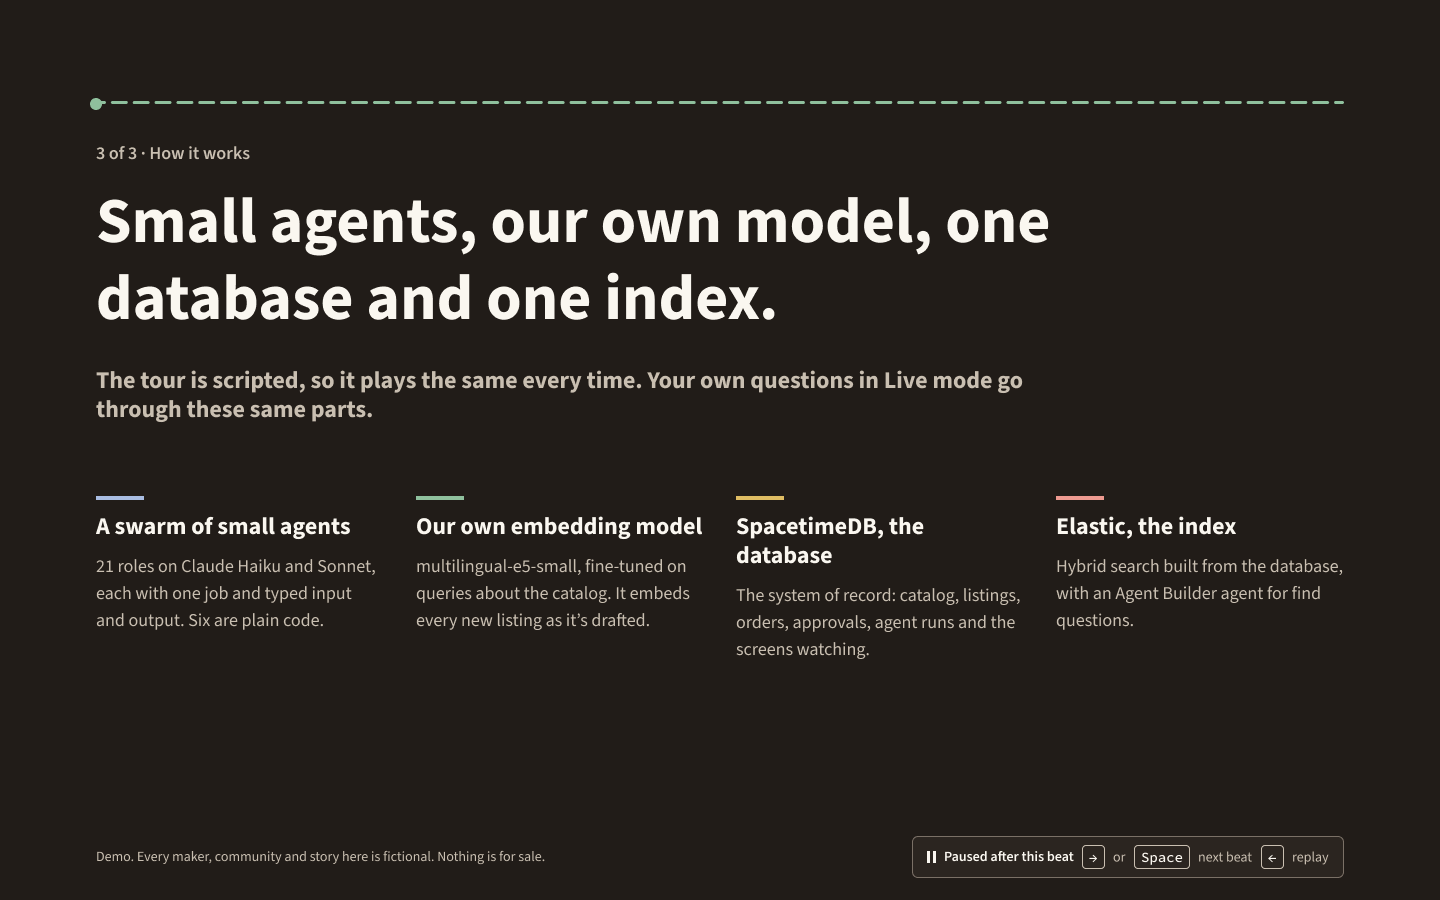
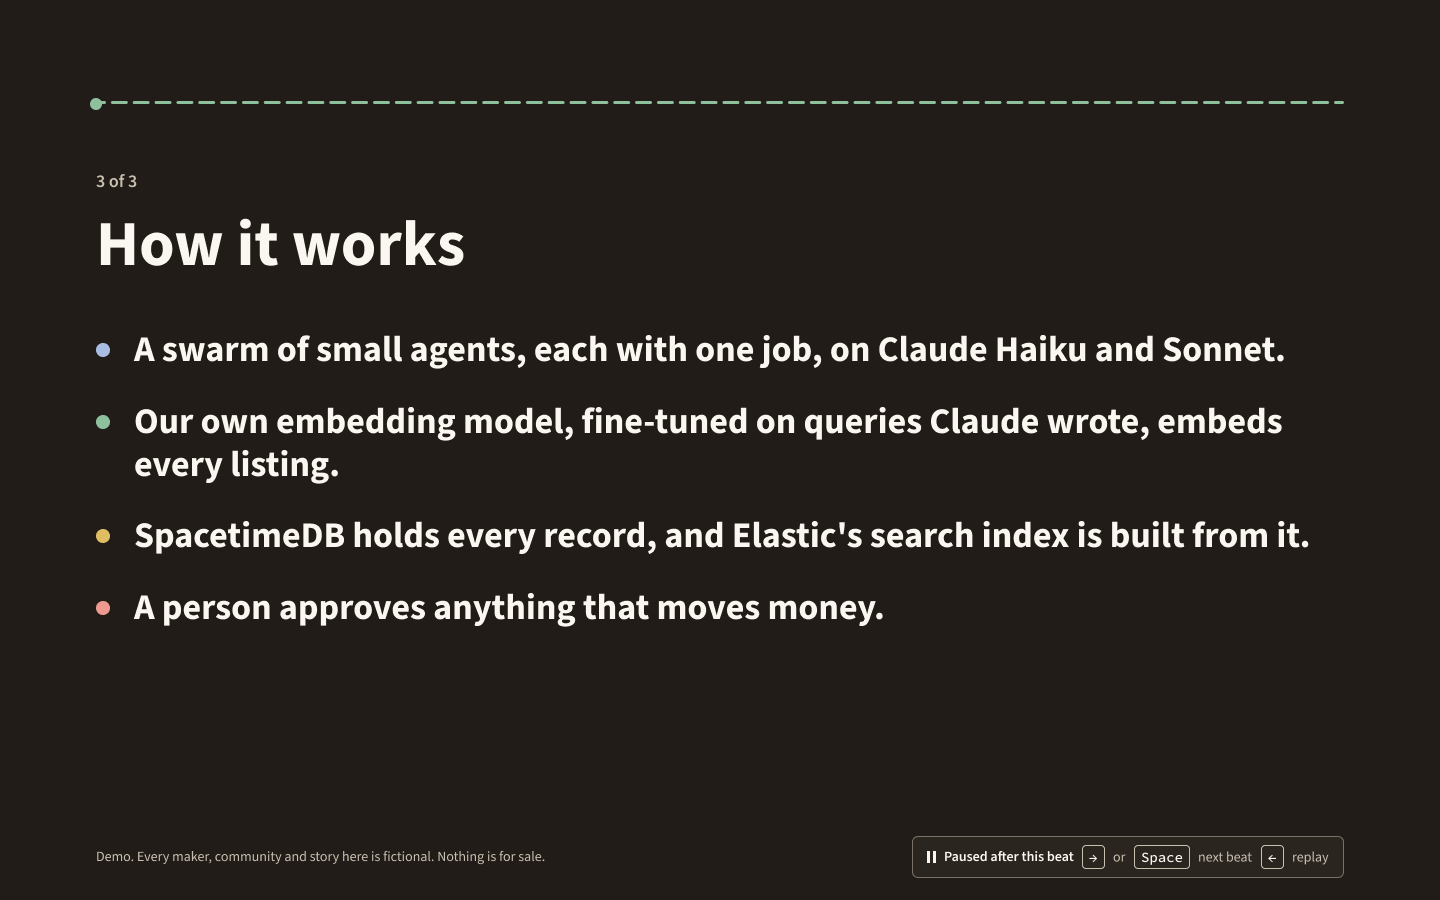
v2 fix: shared-names re-check findings (still in progress, don't build from this commit)
Claude-Session: https://claude.ai/code/session_01JjbAis91jVj1phbgkn75Tj

Changed region(s): [[0.0625, 0.1556, 0.9062, 0.5289], [0.0625, 0.5289, 0.9375, 0.7467]]

diff --git a/docs/v2/reviews/FX10a-shared-names-recheck.md b/docs/v2/reviews/FX10a-shared-names-recheck.md
@@ -1,0 +1,28 @@
+# FX10a · Re-check of the shared names
+
+Fresh checker, Oct 24, about 5:42 PM PT, after the fix plan was applied. Read only. All 16 blockers from B1, D1 and D2 are resolved. New: 2 blockers, 2 majors, 20 minors.
+
+1. **blocker.** S3-catalog:327 makes `run_01` step 8 "`clerk` tool `arrival_window`", but section 6 gives the clerk `order_lookup` and `policy`, and "the run calls `arrival_window` as code". T8's test requires every step to use one of its agent's own tools, so G2b fails. Fix S3:354: "and the tools that agent is allowed, except `arrival_window`, which the run calls as code for the Clerk (contracts section 6)".
+2. **blocker.** I2-tour:228 and :269 hard-code 0.91 for `watch-similarity-cft_01`, but S3 T9 writes the computed match into `watch.ts` before V3. Fix: "the similarity from the timeline's `counterfeit.flagged` `cft_01` (0.91 until S3 T9 replaces it)". Add d14 to the data-read figures at I2-tour:185.
+3. **major.** I2-tour:88 and :171 say the tour's `split.shown` payload doesn't change, but contracts:574 and S3:274 give `splits.pc_01` a `compare`. Fix I2-tour:88: "76.5 `split.shown` from `splits.pc_01`: figure 1's numbers plus figure 16's `compare`". At :171, add "and `compare` on `split.shown`".
+4. **major.** The core gate: contracts:648 runs `check` and `test:server`, I2-core:3, :13 and v2-runbook:89 run `check`, `test:smoke` and `test:demo`. Fix: all list `npm run check`, `npm run test:smoke`, `npm run test:demo`, `npm run test:server`.
+5. **minor.** contracts:862's `ALLOWED_EMPTY_FALLBACKS` lacks `b11-embed` (`search.mapped`, `model.trained`, `proof.search_scored`).
+6. **minor.** S3:330 reads "That's the co-op's record, and Cindia hasn't checked it independently." while L15 (contracts:890) ends "That's the co-op's record." Labels are copied word for word. Fix: L15 becomes the current text plus "Cindia hasn't checked it independently." in both languages, and S3 copies L15 exactly.
+7. **minor.** `pc_55` (contracts:705) is missing from I2-core:283 and S3:131, and S3:336 and :403 still call it proposed. Fix: add "`pc_55` (the piece `lst_01` drafts in the tour, event-only until `apr_04` is granted)". S3:336: "the draft's `pieceId` `pc_55`".
+8. **minor.** The run tables (contracts:848, :854, S3:151, :157) give `run_04` and `run_10` a plain "support" trigger, while S3:339, :345 and I2-core:79, :417 need `makerId` `mkr_01`. Fix those four rows: "support, `makerId` `mkr_01`". Delete S3:339's "(the field is under Needs)" and S3:402's "Until then they answer on every seller page".
+9. **minor.** fix-plan:20 and :22 still say barrettes and bags. Fix: "Floral beadwork: earrings, pouches and necklaces" and "Patchwork skirts and jackets".
+10. **minor.** S3:188 takes `com_dine`'s place from R0 ("Navajo Nation, Arizona"), but contracts:49 and rule R2 say "Navajo Nation, Arizona, USA". Fix S3:188.
+11. **minor.** contracts:78's pattern "enrolled members of the [nation]" reads "of the an Ojibwe" with S3:44's phrases. Fix contracts:78: "enrolled members of [nation]", with S3's phrases as the values.
+12. **minor.** I2-core:272 merges "figures 11 to 15" and a "section 12 data rules" part that section 12 doesn't hold, and :274 puts L1 to L30 in ui-contract.md, while section 12 names glossary.md. I2-tour:30 says "figures 1 to 15". Fix: "figures 11 to 16", "S3-catalog's R1 to R28, by reference", the labels in the glossary.md row, I2-tour:30 "1 to 16".
+13. **minor.** Section 12 names `watch-live-<cftId>`, `watch-claim-only-<n>` and `seller-listing-translated-<lang>`, which section 4's table lacks. Fix: add the three rows.
+14. **minor.** Stale "still to add" and Needs lists: S3's export table (:115, :122, :128) lacks `vibeVocabulary`, `makerQuestions` and `demoDataSync`, plus S3:243, :299, :399-406, I2-kit:104-110, I2-shell:232-240 and I2-art:127-131. Fix: name the exports, and cut those lists to "Settled in contracts section N".
+15. **minor.** contracts:770-775 lists block props without `process`. Fix: add "process: `title`, `body`".
+16. **minor.** Surprise edge cases: contracts:783 and I2-core:343 each leave out the other's case. Fix both: "For `pure_random`, with no keyword, or when the keyword matches nothing, all 54 in `pieceId` order, with the method's weights."
+17. **minor.** I2-tour:89 and :91 list run steps "in order" differently from S3:321-331. Fix: list S3's order (cindy, intake, cindy, steward with its check, clerk, writer) or drop "in order".
+18. **minor.** contracts:36 says config exposes `CINDIA_MODEL_DIR` and `CINDIA_ANTHROPIC_API_KEY`, while I2-core:192 and :196 expose `ANTHROPIC_API_KEY` and `MODEL_DIR` resolved from them. Fix contracts:36: "exposes `ANTHROPIC_API_KEY` (from `CINDIA_ANTHROPIC_API_KEY`, then `ANTHROPIC_API_KEY`), `MODEL_DIR` (from `CINDIA_MODEL_DIR`), `HF_REPO`, and the other names as they are".
+19. **minor.** contracts:118 puts the scripted draft in `listings.ts`, while S3 puts it in `run_02`'s `listing.drafted` in `swarm.ts`. Fix contracts:118.
+20. **minor.** `apr_03` to `apr_05` and `fup_02` have no export name, but `mock.json` holds only named exports. Fix contracts:855 and S3: `index.ts` exports `allApprovals` (`apr_01` to `apr_05`) and `allFollowUps` (`fup_01`, `fup_02`). I2-tour:159 names `demoDataSync` and `counterfeitCandidates`.
+21. **minor.** v2-runbook:83 checks R0 against `durationMs`, which only I2-core T7 adds. Fix: "at most 75 seconds (v1's 60 plus 15)".
+22. **minor.** S3:65 (R14) has motifs `arc`, `geometric`, `square`, `berry` and `bud` with no pattern in I2-art:72. Fix I2-art:72: arcs and squares, berries and buds on Ojibwe floral work, `geometric` as steps and fine-line bands.
+23. **minor.** S3:251 (T5's test) needs I2-art T0's placeholders, but S3:175 depends only on T3 and T4. Fix: "T3, T4, I2-art T0 committed".
+24. **minor.** I2-core:371's "facet words (object, materials, techniques, motifs, colors)" reads as a sub-order that breaks figure 11. Fix: "then facet words (any of object, materials, techniques, motifs or colors, together, in text order)".

diff --git a/docs/v2/fix-plan.md b/docs/v2/fix-plan.md
@@ -19,9 +19,9 @@ The catalog:
 | Community | IDs | Craft | Place | Pieces | Makers | Owner, storefront, project |
 |---|---|---|---|---|---|---|
 | **Diné Weaving and Silver Co-op**, the named community. It is v1's studio, re-skinned | `com_dine`, studio `std_dine` | Wool weavings, silver and turquoise jewelry | Navajo Nation, Arizona, USA | `pc_01` to `pc_12` | `mkr_01` to `mkr_03` | `own_01`, `sto_01`, `prj_01` |
-| An Ojibwe beadwork co-op | `com_ojibwe` | Floral beadwork: earrings, pouches, barrettes | Minnesota, USA | `pc_13` to `pc_26` | `mkr_04` to `mkr_08` | `own_02`, `sto_02`, `prj_02` |
+| An Ojibwe beadwork co-op | `com_ojibwe` | Floral beadwork: earrings, pouches and necklaces | Minnesota, USA | `pc_13` to `pc_26` | `mkr_04` to `mkr_08` | `own_02`, `sto_02`, `prj_02` |
 | An Acoma pottery studio | `com_acoma` | Coil-built, hand-painted pottery | New Mexico, USA | `pc_27` to `pc_40` | `mkr_09` to `mkr_13` | `own_03`, `sto_03`, `prj_03` |
-| A Seminole patchwork co-op | `com_seminole` | Patchwork skirts, jackets and bags | Florida, USA | `pc_41` to `pc_54` | `mkr_14` to `mkr_17` | `own_04`, `sto_04`, `prj_04` |
+| A Seminole patchwork co-op | `com_seminole` | Patchwork skirts and jackets | Florida, USA | `pc_41` to `pc_54` | `mkr_14` to `mkr_17` | `own_04`, `sto_04`, `prj_04` |
 
 - Storefront slugs: `dine-weavers`, `ojibwe-beadwork`, `acoma-pottery`, `seminole-patchwork`.
 - Pieces stay at 54 and makers at 17. Communities, owners, storefronts and projects go from eight to four.
